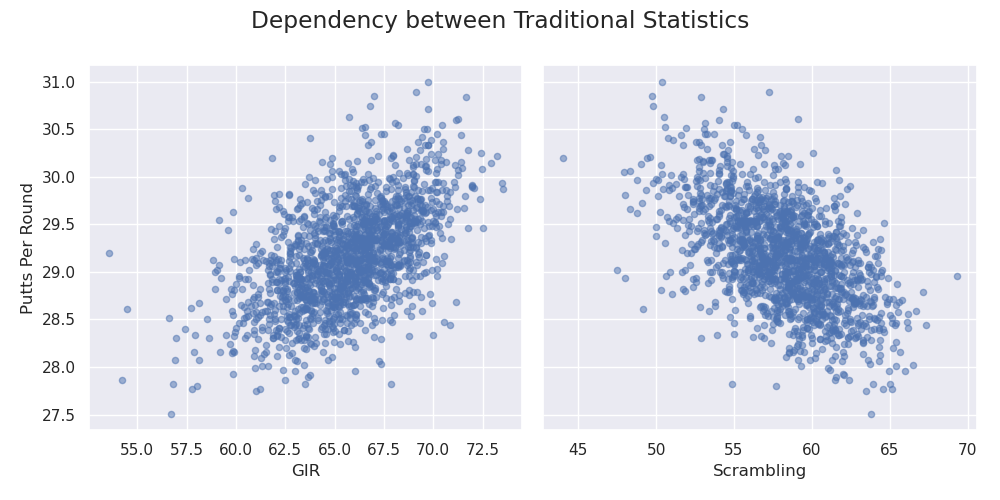
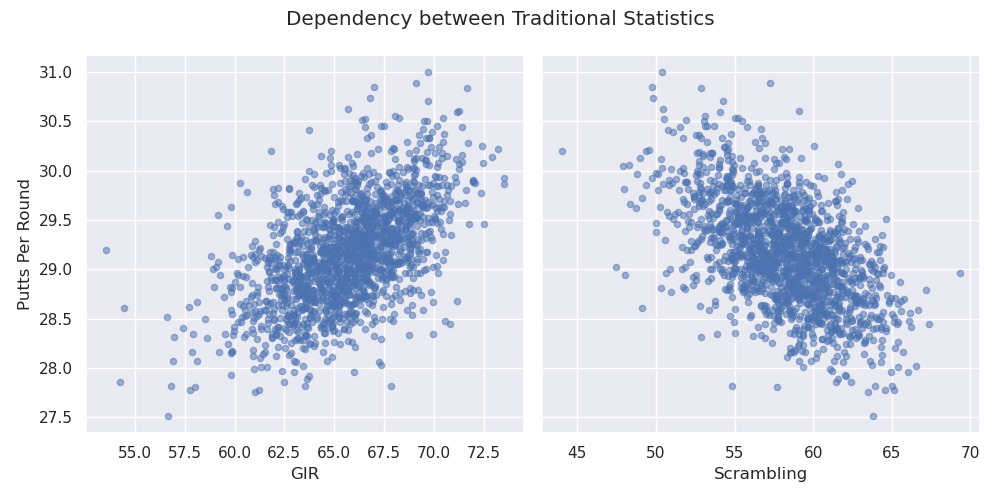
testing links in readme

diff --git a/src/plotting.py b/src/plotting.py
@@ -3,7 +3,7 @@ import seaborn as sns
 
 
 sns.set_theme(style='darkgrid')
-plt.rcParams.update({'font.size': 14, 'font.family': 'sans'})
+plt.rcParams.update({'font.size': 12, 'font.family': 'sans'})
 
 def make_double_scatter_plot(df,xcols,ycol,alpha=1,with_top_performers=True,title=None,show_legend=True,save_path=None):
     '''
@@ -43,28 +43,22 @@ def make_double_scatter_plot(df,xcols,ycol,alpha=1,with_top_performers=True,titl
     return fig,axs
     
 
-def make_win_top10_heatmaps(df,group,just_top_performers=False):
+def make_win_top10_heatmaps(df,group,just_top_performers=False,top_performer_rank_limit=3):
     '''
     Make win and top 10 heatmaps of the specified statistical group
     INPUT - df - data frame, group - statistics group class obj
-            just_top_performers - bool - if true then the correlation will only be between players ranked in the top 3 for wins or top 10s in a year
+            just_top_performers - bool - if true then the correlation will only be between players ranked in the top X(set by top_performer_rank_limit) for wins or top 10s in a year
+            top_performer_rank_limit - int - rank to include up to for top performers - default is 3 (players ranked 3rd or higher)
     '''
     if just_top_performers:
-        df = df[(df['Wins rank']<=3) | (df['Top 10 rank']<=3)]
+        df = df[(df['Wins rank']<=top_performer_rank_limit) | (df['Top 10 rank']<=top_performer_rank_limit)]
         title_str = f'{group.name} Correlation of Finishes for Top Performers'
         save_path_name = f'/home/rpeterson/Documents/dai/repos/pga_tour_analysis/images/win_top10_heatmap_top_performers_{group.name.replace(" ","_")}.png'
     else:
         title_str = group.name
         save_path_name = f'/home/rpeterson/Documents/dai/repos/pga_tour_analysis/images/win_top10_heatmap_{group.name.replace(" ","_")}.png'
-    # corr = df[['Wins','Top 10']+group.column_names].corr()
-    # fig,ax = plt.subplots()
-    # sns.heatmap(corr.iloc[:2,2:], annot=True,ax=ax)
-    # ax.set_title(title_str)
-    # ax.set_xticklabels(group.proper_names,rotation=90)
-    # fig.tight_layout()      
-    # fig.savefig(save_path_name)
     corr = df[['Wins','Top 10']+group.column_names].corr()
-    fig,ax = plt.subplots()
+    fig,ax = plt.subplots(figsize=(4.5,3))
     sns.heatmap(corr.iloc[2:,:2], annot=True,ax=ax)
     ax.set_title(title_str)
     ax.set_yticklabels(group.proper_names)
@@ -91,13 +85,13 @@ def make_win_top10_quad_heatmaps(df,stat_groups):
 def make_violin_top_performer_plots(df,group,orientation='v',show_legend=True):
     
     if orientation == 'v':
-        figsize=(4*len(group),10)
+        figsize=(12,10)
     else:
         figsize=(12,3*len(group))
     fig,ax = plt.subplots(figsize=figsize)
     sns.violinplot(data=df[group.column_names],inner='quartile',cut=0,scale='count',ax=ax,color='forestgreen',orient=orientation)
-    sns.swarmplot(data=df[df['Top 10 rank']<=3][group.column_names],ax=ax,color='blue',edgecolor='black',linewidth=1,size=4,label='Golfer ranked in the Top 3 for the most Top 10 finishes in a year',orient=orientation)
-    sns.swarmplot(data=df[df['Wins rank']<=3][group.column_names],ax=ax,color='gold',edgecolor='black',linewidth=1,size=4,label='Golfer ranked in the Top 3 for the most Wins in a year',orient=orientation)
+    sns.swarmplot(data=df[df['Top 10 rank']<=3][group.column_names],ax=ax,color='blue',edgecolor='black',linewidth=1,size=4,label='Golfer ranked in Top 3 for most Top 10 finishes in a year',orient=orientation)
+    sns.swarmplot(data=df[df['Wins rank']<=3][group.column_names],ax=ax,color='gold',edgecolor='black',linewidth=1,size=4,label='Golfer ranked in Top 3 for most Wins in a year',orient=orientation)
     if orientation =='v':
         ax.set_xticklabels(group.proper_names)
         ax.set_ylabel(group.units)

diff --git a/README.md b/README.md
@@ -1,3 +1,5 @@
+For the traditional statistics the driving distance and GIR have the highest correlation to wins but putts per round is significantly higher than the rest for top 10 finishes. Driving accuracy seems the least important and distance doesn't seem to matter for top 10 finishes.
+
 
 
 # PGA TOUR Player Results vs Average Statistical Performance
@@ -5,7 +7,7 @@
 
 
 ## Overview
-There is an old golf adage that you "Drive for show and putt for dough." The idea behind it is that while hitting the ball a long ways is impressive, putting is more important to top finishes in tournaments. Despite this adage it seems like professional golfers are always trying to get more distance off the tee. So is this adage true? What is more important to winning, driving or putting? Or is somewhere between the tee and the green? The purpose of this analysis is to investigate whether a single aspect of golf tends to lead to better tournament results.
+There is an old golf adage that you "Drive for show and putt for dough." The idea behind it is that while hitting the ball a long ways is impressive, putting is more important to top finishes in tournaments. Despite this adage it seems like professional golfers are always trying to get more distance off the tee. So is this adage true? What is more important to winning, driving or putting? Or is it somewhere between the tee and the green? The purpose of this analysis is to investigate whether a single aspect of golf tends to lead to better tournament results.
 
 ## Background
 ### Golf in General
@@ -17,12 +19,19 @@ There are four main aspects of golf: driving, approach the green, around the gre
 - Around the green shots are those taken within 30 yards of the green.
 - Putting is any shot taken on the green. 
 
+[test link](#test)
+
 ### The PGA TOUR
+
 The PGA TOUR is the premier professional golf tour in North America. While it is based in the United States the best international golfers also participate in PGA TOUR events. Each tournament consists of four rounds which are typically played on Thursday through Sunday. Each round consists of 18 holes and the final tournament standings are based on who has the lowest total strokes after the final round. A full tournament will have 156 players to start. After two rounds there is a cut and only about 70 players with the lowest score to that point continue to play the weekend. 
 
 ### Tracked Statistics
 The PGA TOUR tracks several statistics to indicate players performance and rate each aspect of their game. A complete list of all tracked stats can be found on the [PGA TOUR site](https://www.pgatour.com/stats.html).  I will review a few major statistical categories that will be used in this analysis. These can be divided into two groups, traditional and strokes gained. Traditional statistics have been used for decades while the strokes gained were introduced in 2011 for putting and 2016 for other aspects.
 First lets review the traditional statistics. The table below gives a description of the 5 main statistics that most casual golfers are familiar with.
+
+[Traditional Statistics Description][traditional_stats_table]
+
+<a name='test'>
 
 | Statistic Name | Description |
 |---|---|
@@ -32,9 +41,11 @@ First lets review the traditional statistics. The table below gives a descriptio
 | **Scrambling** | The percent of time a player misses the Green in Regulation, but still makes par or better. |
 | **Putts per Round** | The average number of putts a player takes each round. |
 
+</a>
+
 The benefit of these traditional statistics are they are very straightforward and easy to calculate. A golfer at any skill level could track these for themselves during a round. Where these statistics lack is the ability to isolate each aspect of golf to a single stat. This is due to the fact that each subsequent shot is dependent on the prior result. The figure below shows how the number of putts per round is related to both the GIR percentage and scrambling percentage. 
 
-![](images/dependency_between_gir_scrambling_putts.png)
+![](images/dependency_between_gir_scrambling_putts.png)[Jump to next table][sg_table]
 
 There is clearly a trend where the higher the GIR percentage the more average putts per round are taken. Intuitively this makes sense. A player who misses the green in regulation takes an extra shot to get on the green. That extra shot is usually taken closer around the green and hence has a higher probability of ending up closer to the hole than a player hitting the green in regulation.  
 
@@ -43,6 +54,8 @@ There is also shown in the figure that higher scrambling percentages correlate t
 Consider how the GIR percentage could also be dependent on the Driving Distance and Driving Accuracy. Due to the dependent nature of these statistics it is difficult to make conclusions such as how good a player is at putting just based on the average putts per round. 
 
 The strokes gained concept was developed by Professor Mark Broadie from Columbia University as a way to isolate each aspect of the game. I will give a brief overview of the concept but a more in depth description is on the [PGA TOUR strokes gained site](https://www.pgatour.com/news/2016/05/31/strokes-gained-defined.html). The strokes gained (SG) concept measures how well a player performs each shot based on the average tour player. The concept is made possible because of a ShotLink data that has been recorded since 2004.  There is a baseline for the average number of strokes it takes tour players to hole out from various distances based on where the shot is taken from (tee, fairway, rough, green, or other). The SG for each stroke has to do with what the expected number of strokes are from the current position and the expected number of strokes from where the shot ends up. There is a SG statistic for each of the four aspects of golf, they are listed in the table below.
+
+[sg_table]: Strokes Gained Statistics
 
 | Name | Description |
 |---|---|
@@ -87,10 +100,13 @@ Instead of comparing the correlation of actual statistics to the tournament resu
 The two figure below shows the correlation between the number of wins and top 10 finishes each year and where the players ranked in statistical categories. The first figure is for the traditional statistics and the second is for the strokes gained statistics. Note that because the correlation is to rank values (1st, 2nd, 3rd, etc.), a higher negative correlation is better. 
 
 ![](images/win_top10_heatmap_top_performers_Traditional_Statistic_Ranks.png)
+
+For the traditional statistics the driving distance and GIR have the highest correlation to wins but putts per round is significantly higher than the rest for top 10 finishes. Driving accuracy seems the least important and distance doesn't seem to matter for top 10 finishes.
+
 ![](images/win_top10_heatmap_top_performers_Strokes_Gained_Ranks.png)
 
 
-For the traditional statistics the driving distance and GIR have the highest correlation to wins but putts per round is significantly higher than the rest for top 10 finishes. Driving accuracy seems the least important and distance doesn't seem to matter for top 10 finishes.
+
 
 For the strokes gained statistics approach-the-green has the highest correlation with wins and putting has the lowest (nearly zero). For top 10s putting has the highest correlation and off-the-tee (driving) has the lowest.
 
